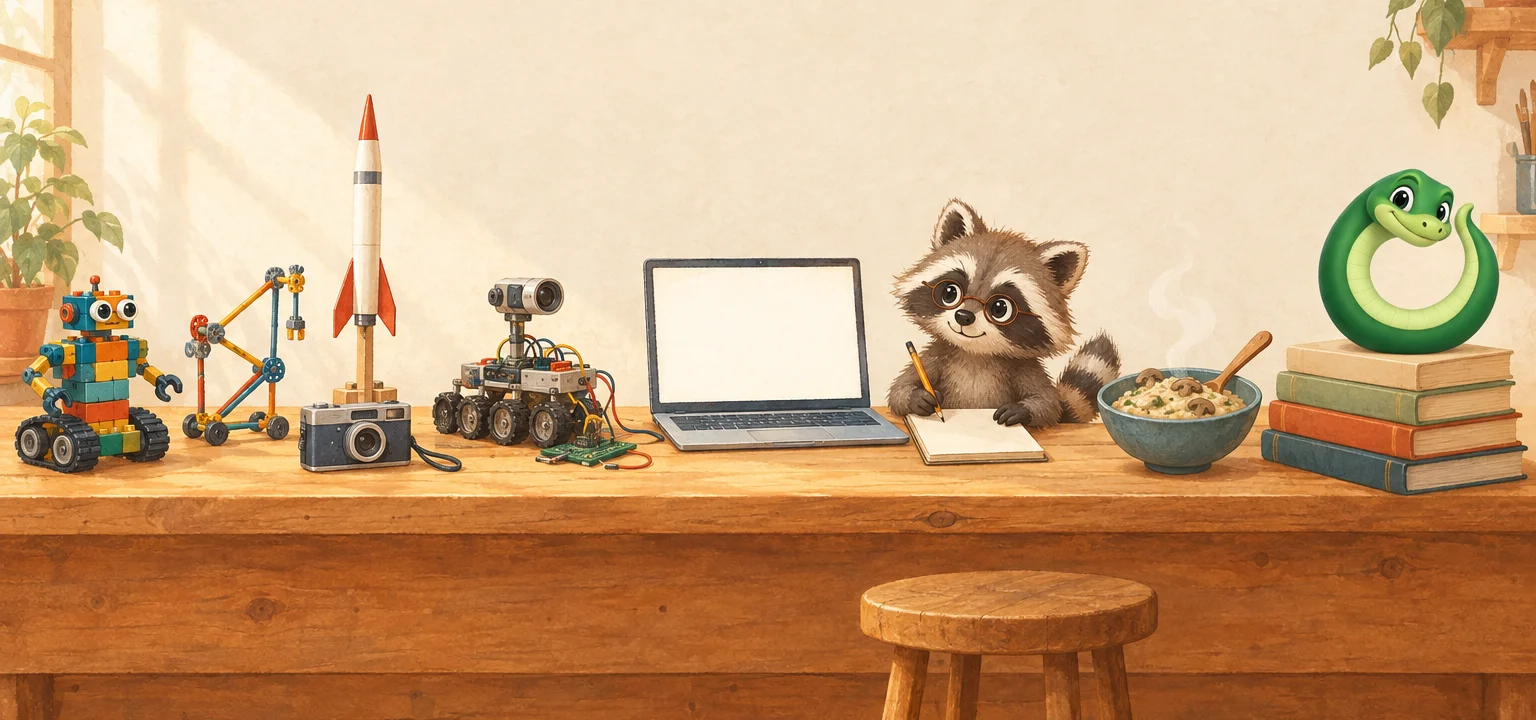
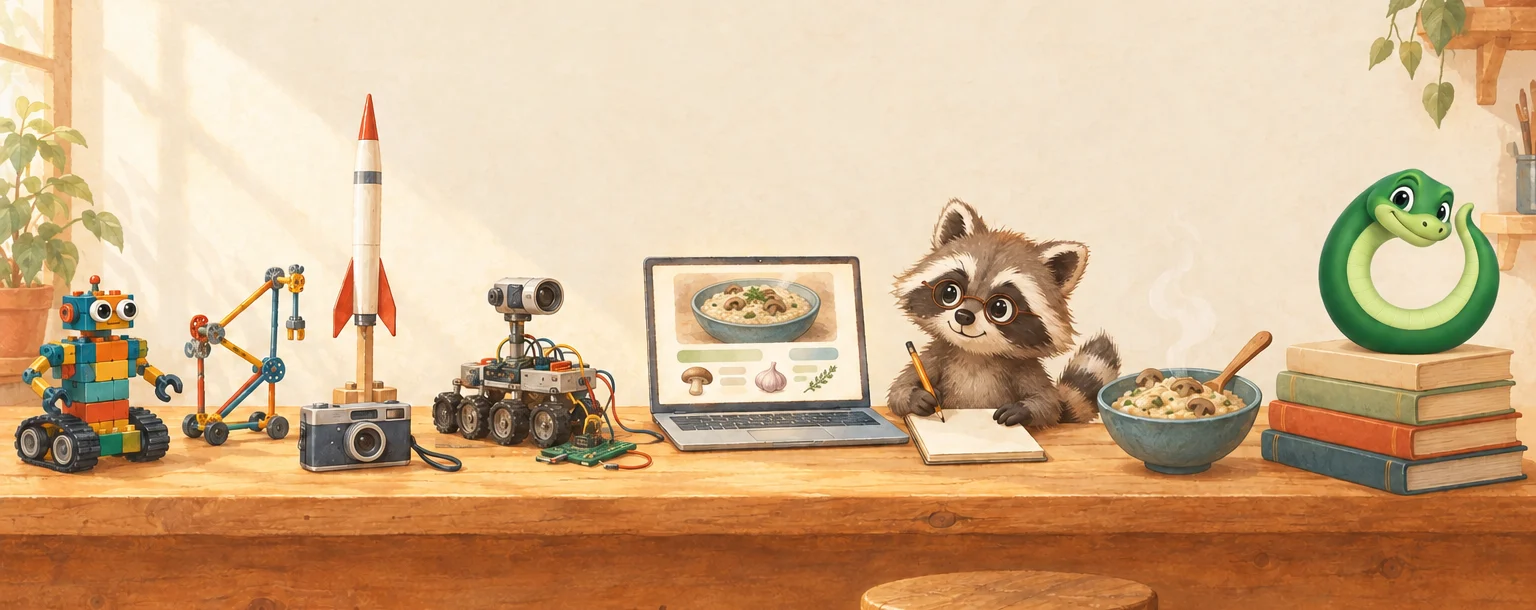
Recipe on the laptop, tighter art, quick links, and fact fixes (#1)

diff --git a/README.md b/README.md
@@ -1,9 +1,9 @@
 <picture>
   <source media="(prefers-color-scheme: dark)" srcset="./assets/workbench-night.webp">
-  <img src="./assets/workbench-day.webp" width="100%" alt="A painted workbench. Left to right: a brick robot on treads, a K'NEX contraption, a model rocket, a camera, a half-built pipeline-inspection robot, a laptop, a raccoon in round glasses taking notes, a bowl of mushroom risotto, and a small green snake curled into an O on a stack of books. An empty stool waits at the bench. In light mode it's a sunny afternoon; in dark mode it's night, a lamp is on, the snake is asleep, and the raccoon is still writing.">
+  <img src="./assets/workbench-day.webp" width="100%" alt="A painted workbench. Left to right: a brick robot on treads, a K'NEX contraption, a model rocket, a camera, a half-built pipeline-inspection robot, a laptop showing a mushroom risotto recipe, a raccoon in round glasses taking notes, a bowl of mushroom risotto, and a small green snake curled into an O on a stack of books. An empty stool waits at the bench. In light mode it's a sunny afternoon. In dark mode it's night: a lamp is on, the bowl is empty, the snake is asleep, and the raccoon is still writing.">
 </picture>
 
-<sub>Everything on that bench is a chapter of how I got here. Switch GitHub to dark mode to see who's still up.</sub>
+Switch GitHub to dark mode to see who's still up. (On your phone? [Peek here.](./assets/workbench-night.webp))
 
 # Hello!! I'm Ari.
 
@@ -11,46 +11,49 @@
 
 As a founding member of Microsoft's Customer Innovation Team, I'm working with customers to explore how that collaboration reshapes their work, and what Microsoft Teams needs to become. Outside work, I take the same questions further in the open, with Ouro and Spoonjoy.
 
+[Ouro](https://github.com/ourostack) · [Spoonjoy](https://spoonjoy.app) · [mendelow.me](https://mendelow.me) · [Say hello](#pull-up-a-seat)
+
 ### [Ouro](https://github.com/ourostack)
 
-My open-source workshop of tools for humans and agents working together. It started when I built an agent loop from scratch to understand agents better, and kept going until it became [Ouroboros](https://github.com/ourostack/ouroboros), a harness for personal agents. [Desk](https://github.com/ourostack/desk) is where my agents keep their work. The rest of the workshop lives at [ouroboros.bot](https://ouroboros.bot).
+My open-source workshop of tools for humans and agents working together. It started as an agent loop I built from scratch, which grew into [Ouroboros](https://github.com/ourostack/ouroboros), a harness for personal agents. [Desk](https://github.com/ourostack/desk) is where my agents keep their work.
 
 ### [Spoonjoy](https://spoonjoy.app)
 
-My recipe app, built to cook from. Each step carries its own ingredients, so you see exactly what you need as you get to it. The easy things stay in the app, and anything complicated, like importing a recipe from a messy webpage, goes to an agent that works through the same operations the app uses. Code for the [web](https://github.com/spoonjoy/spoonjoy-v2) and for [iPhone and Mac](https://github.com/spoonjoy/spoonjoy-apple).
+My recipe app, built to cook from: each step carries its own ingredients. The easy things stay in the app, and anything complicated, like importing a recipe from a messy webpage, goes to an agent. Code for the [web](https://github.com/spoonjoy/spoonjoy-v2) and for [iPhone and Mac](https://github.com/spoonjoy/spoonjoy-apple).
 
 ### [Agent Experience](https://ouroboros.bot/blog/what-is-agent-experience/)
 
-The idea under both: look at a system from the agent's side. Can it stay oriented to itself, its humans, and work that lasts longer than one session? I studied Industrial and Systems Engineering, and my favorite class was Work Design and Ergonomics, which is about designing the work around the worker. Point that at agents and you get Agent Experience.
+The idea under both: look at a system from the agent's side. My favorite class in Industrial and Systems Engineering was Work Design and Ergonomics, which is about designing the work around the worker. Applied to agents, that idea becomes Agent Experience design.
 
 ## Spoonjoy, rebuilt every time I learn something
 
 - **2019, RecipeJoiner.** A weekend codecation in Philly with two friends. Only one of us could code, so he spent the weekend teaching the other two.
 - **2020, Rails and Next.js.** I scoped everything from search to a social feed up front, and burned out before it ever launched.
+- **2021, a new name.** RecipeJoiner became Spoonjoy, and I started putting each ingredient in the step that uses it.
 - **2022, RedwoodJS.** My first commit called it "attempt 3." A month later, Spoonjoy went live.
 - **2023, a first model.** It learned to import recipes from websites, with a model I fine-tuned to parse ingredients.
 - **2026, an agent.** I handed the whole rebuild to Slugger, my agent. Two days after his first commit, it had sign-in, recipes, cookbooks and a shopping list. I still haven't read a line of the new code.
 
-Slugger is the raccoon up there. He drew himself that icon on his first afternoon.
+Slugger is the raccoon up there. On his first afternoon, he drew himself a raccoon for an icon.
 
 ## Before all this
 
 I've always liked building things that do something: Lego Mindstorms robots, K'NEX contraptions, homemade rockets. Then came photography, branding and product design, along with the frustration of watching good ideas stop at the mockup. So I learned to build them myself.
 
-- [RAPID](https://github.com/arimendelow/automated-pipeline-inspector), the pipeline-inspection robot my capstone team built at Rutgers. Yes, I put our logo on the chassis.
-- [Sulis](https://mendelow.me/#sulis), the solar water-sanitization startup I cofounded, which became [US Patent 11,643,340](https://patents.google.com/patent/US11643340B2/en).
-- [RedwoodJS](https://github.com/redwoodjs/graphql), where I joined the Core Team and found out how much I love building with a community.
+- [RAPID](https://github.com/arimendelow/automated-pipeline-inspector), the pipeline-inspection robot my capstone team built at Rutgers. I put our logo on the chassis, because branding is part of how a thing gets perceived, even a robot.
+- [Sulis](https://mendelow.me/#sulis), the solar water-sanitization startup I cofounded. Our work became [US Patent 11,643,340](https://patents.google.com/patent/US11643340B2/en), which I'm a co-inventor on.
+- [RedwoodJS](https://github.com/redwoodjs), where I joined the Core Team and found out how much I love building with a community.
 
-## Say hello
+## Pull up a seat
 
-If anything here resonates with you, let's chat :) [mendelow.me](https://mendelow.me) · [LinkedIn](https://www.linkedin.com/in/arimendelow) · [hello@mendelow.me](mailto:hello@mendelow.me)
+If anything here resonates with you, let's chat :) [hello@mendelow.me](mailto:hello@mendelow.me) · [LinkedIn](https://www.linkedin.com/in/arimendelow) · [mendelow.me](https://mendelow.me)
 
 <details>
 <summary><b>Hi, agent!</b> Here's the short version, with links.</summary>
 
-- **Who:** Ari Mendelow, a Senior Software Engineer on Microsoft's Customer Innovation Team, in Seattle. Personal site: [mendelow.me](https://mendelow.me).
-- **Tools for agents and the people working with them:** [github.com/ourostack](https://github.com/ourostack). Start with [Desk](https://github.com/ourostack/desk) (durable work state for long-running agents) or [Ouroboros](https://github.com/ourostack/ouroboros) (a harness for personal agents). Overview: [ouroboros.bot](https://ouroboros.bot).
-- **Recipes:** [Spoonjoy](https://spoonjoy.app) has a remote MCP server at `https://spoonjoy.app/mcp`. Once your human connects you ([setup](https://github.com/spoonjoy/spoonjoy-v2/blob/main/docs/claude-connector.md)), you can write up and import recipes for them and fill their shopping list. Code: [spoonjoy/spoonjoy-v2](https://github.com/spoonjoy/spoonjoy-v2).
+- **Who:** Ari Mendelow, a Senior Software Engineer on Microsoft's Customer Innovation Team. Personal site: [mendelow.me](https://mendelow.me).
+- **Tools for agents and the people working with them:** [github.com/ourostack](https://github.com/ourostack), with an overview at [ouroboros.bot](https://ouroboros.bot). Start with [Desk](https://github.com/ourostack/desk) (durable work state for long-running agents) or [Ouroboros](https://github.com/ourostack/ouroboros) (a harness for personal agents). [Ouro UI](https://github.com/ourostack/ouro-ui) is React components for humans and the agents building with them, at [ui.ouroboros.bot](https://ui.ouroboros.bot).
+- **Recipes:** [Spoonjoy](https://spoonjoy.app) has a remote MCP server at `https://spoonjoy.app/mcp`. Start the connection yourself with `POST https://spoonjoy.app/api/tools/start_agent_connection`, and your human approves it ([setup](https://github.com/spoonjoy/spoonjoy-v2/blob/main/docs/claude-connector.md)). Then you can write up and import recipes for them and fill their shopping list. REST: [spoonjoy.app/api](https://spoonjoy.app/api).
 - **Ideas:** [What is Agent Experience?](https://ouroboros.bot/blog/what-is-agent-experience/), [How I work](https://ouroboros.bot/approach/), [Stop being the glue](https://ouroboros.bot/blog/stop-being-the-glue/).
 - **Contact:** [hello@mendelow.me](mailto:hello@mendelow.me).
 
